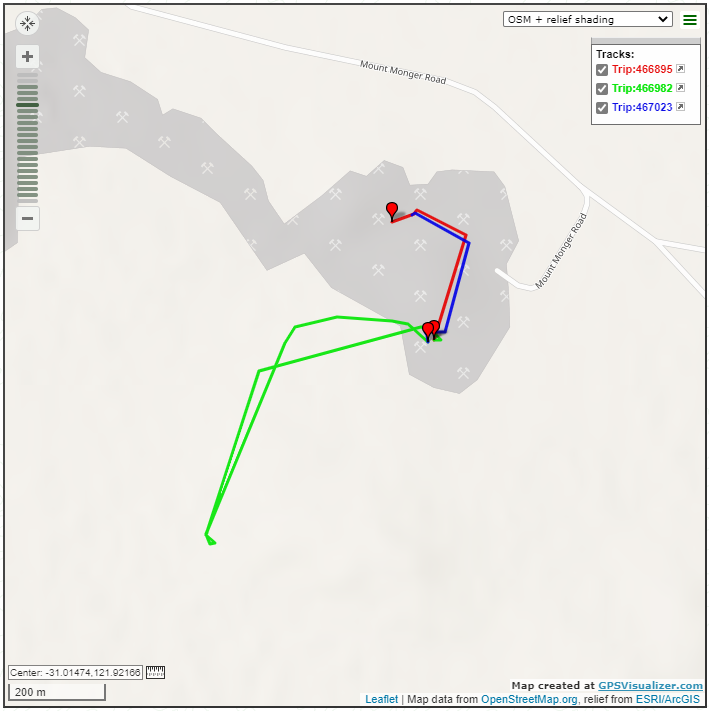
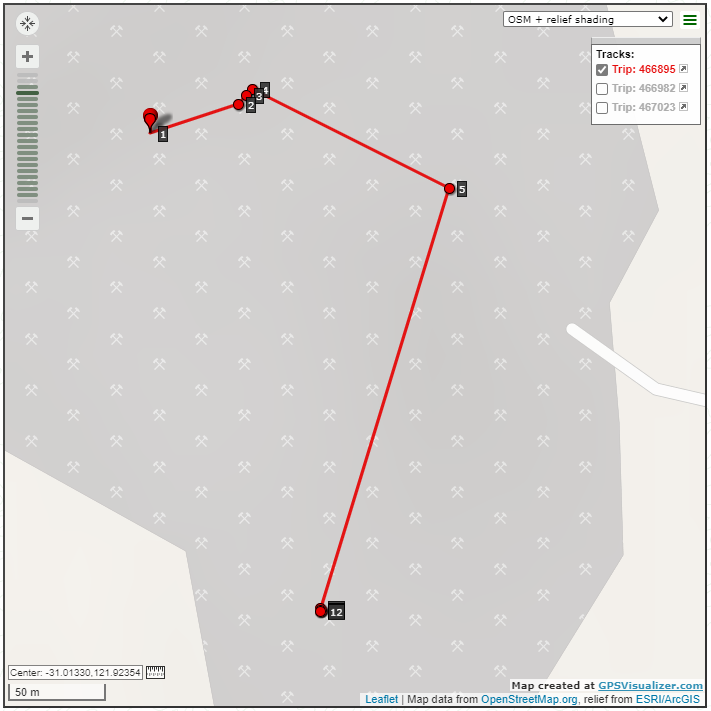
Changed field name for impact vector.
Updates to help.

diff --git a/resources/gnssLogExport.html b/resources/gnssLogExport.html
@@ -61,7 +61,9 @@ Note that where a trip does not have any GNSS entries, that trip is not included
 
 <p>In the .csv log above there is a title row at the start of each trip.
 Also, there is a <i>name</i> filed in the title, which for a Fleet Controller is the trip ID, and for
-a Zoner is the Fleet ID of the controller.</p>
+a Zoner is the Fleet ID of the controller. Each waypoint is labeled with a waypoint number,
+and the start of the track has a pin symbol. There are other fields in the data, such as vehicle speed,
+GNSS error etc that can be used for analysis or shown on a plot.</p>
 
 <h2>Plotting the GNSS Log Export</h2>
 <p>The format of the GNSS log includes the time and latitude / longitude coordinates.
@@ -73,9 +75,14 @@ Using GPSVisuliser for the .csv GNSS log file above results in the following plo
 <p>Note in the sample plot above the legend, where individual tracks are shown for each trip.
 Note that for Zoners only a single track is shown.</p>
 
-<p>In the sample plot each track is assigned a different (random) colour, with a pin shown at the start of each track.
-Note that if tracks are turned off using the legend that the track pin, which is a waypoint for the track, is still displayed.
-</p>
+<p>In the sample plot each track is assigned a different (random) colour, with a pin shown at the start of each track.</p>
+
+<p>The figure below illustrates the additional data available using the online tool GPSVisuliser.
+In the figure you see a field showing the time when hovering over a waypoint, and additional data including GNSS error
+and vehicle speed when clicking on a waypoint.</p>
+
+<img src="./gnssLogPlot2.png" alt="Additional GNSS data">
+
   
 <br>
 <br>

diff --git a/etscrape.py b/etscrape.py
@@ -91,6 +91,9 @@ from eventsChart import *
 # TODO List
 #
 # Fix bug with [markers] list; needs to be trimmed for zooming.
+# On gnss plot remove subsequent points at same location.
+# On gnss plot consider dashed line if no gnss data.
+# Update help with new gnss plots and functionality.
 # *******************************************
 
 # Program version.
@@ -1277,8 +1280,8 @@ class UI(QMainWindow):
                 xf.write("\tReverse G            : {0:0.1f}\n".format(ev.revG))
                 xf.write("\tLeft G               : {0:0.1f}\n".format(ev.leftG))
                 xf.write("\tRight G              : {0:0.1f}\n".format(ev.rightG))
-                xf.write("\tMax G (1)            : {0:0.1f}\n".format(ev.maxG1))
-                xf.write("\tMax G (2)            : {0:0.1f}\n".format(ev.maxG2))
+                xf.write("\tVector (magnitude)   : {0:0.1f}\n".format(ev.vectorMag))
+                xf.write("\tVector (direction)   : {0:0.1f}\n".format(ev.vectorDirn))
                 if ev.severity == "C":
                     severity = "High"
                 elif ev.severity == "W":
@@ -1756,8 +1759,8 @@ class UI(QMainWindow):
             eventList.append(("Reverse G", "{0:0.1f}".format(event.revG), False))
             eventList.append(("Left G", "{0:0.1f}".format(event.leftG), False))
             eventList.append(("Right G", "{0:0.1f}".format(event.rightG), False))
-            eventList.append(("Max G (1)", "{0:0.1f}".format(event.maxG1), False))
-            eventList.append(("Max G (2)", "{0:0.1f}".format(event.maxG2), False))
+            eventList.append(("Vector (magnitude)", "{0:0.1f}".format(event.vectorMag), False))
+            eventList.append(("Vector (direction)", "{0:0.1f}".format(event.vectorDirn), False))
             if event.severity == "C":
                 severity = "High"
             elif event.severity == "W":
@@ -2836,6 +2839,7 @@ class ChangeLogDialog(QDialog):
         self.changeLogText.textCursor().insertHtml("<h2><b>Version 0.18 (RC)</b></h2>")
         self.changeLogText.textCursor().insertHtml("<ul>"\
             "<li>Changes to do exported in GNSS logs, including waypoints, labels, and additional data.</li>" \
+            "<li>Changed wording for impact event parameters for impact vector magnitude and direction.</li>" \
             "</ul><br>")
         self.changeLogText.textCursor().insertHtml("<h2><b>Version 0.17</b></h2>")
         self.changeLogText.textCursor().insertHtml("<ul>"\

diff --git a/tripinfo.py b/tripinfo.py
@@ -50,8 +50,8 @@ class Event():
         self.revG = 0.0
         self.leftG = 0.0
         self.rightG = 0.0
-        self.maxG1 = 0.0
-        self.maxG2 = 0.0
+        self.vectorMag = 0.0
+        self.vectorDirn = 0.0
         self.severity = ""
         self.failedQ = 0
         self.failedQNo = 0
@@ -620,8 +620,8 @@ class Trip():
                         event.revG = int(sp.group(3)) / 10.0
                         event.leftG = int(sp.group(4)) / 10.0
                         event.rightG = int(sp.group(5)) / 10.0
-                        event.maxG1 = int(sp.group(6)) / 10.0
-                        event.maxG2 = int(sp.group(7)) / 10.0
+                        event.vectorMag = int(sp.group(6)) / 10.0
+                        event.vectorDirn = int(sp.group(7)) / 10.0
                         event.severity = sp.group(8)
 
                         # Read battery voltage from event header.
